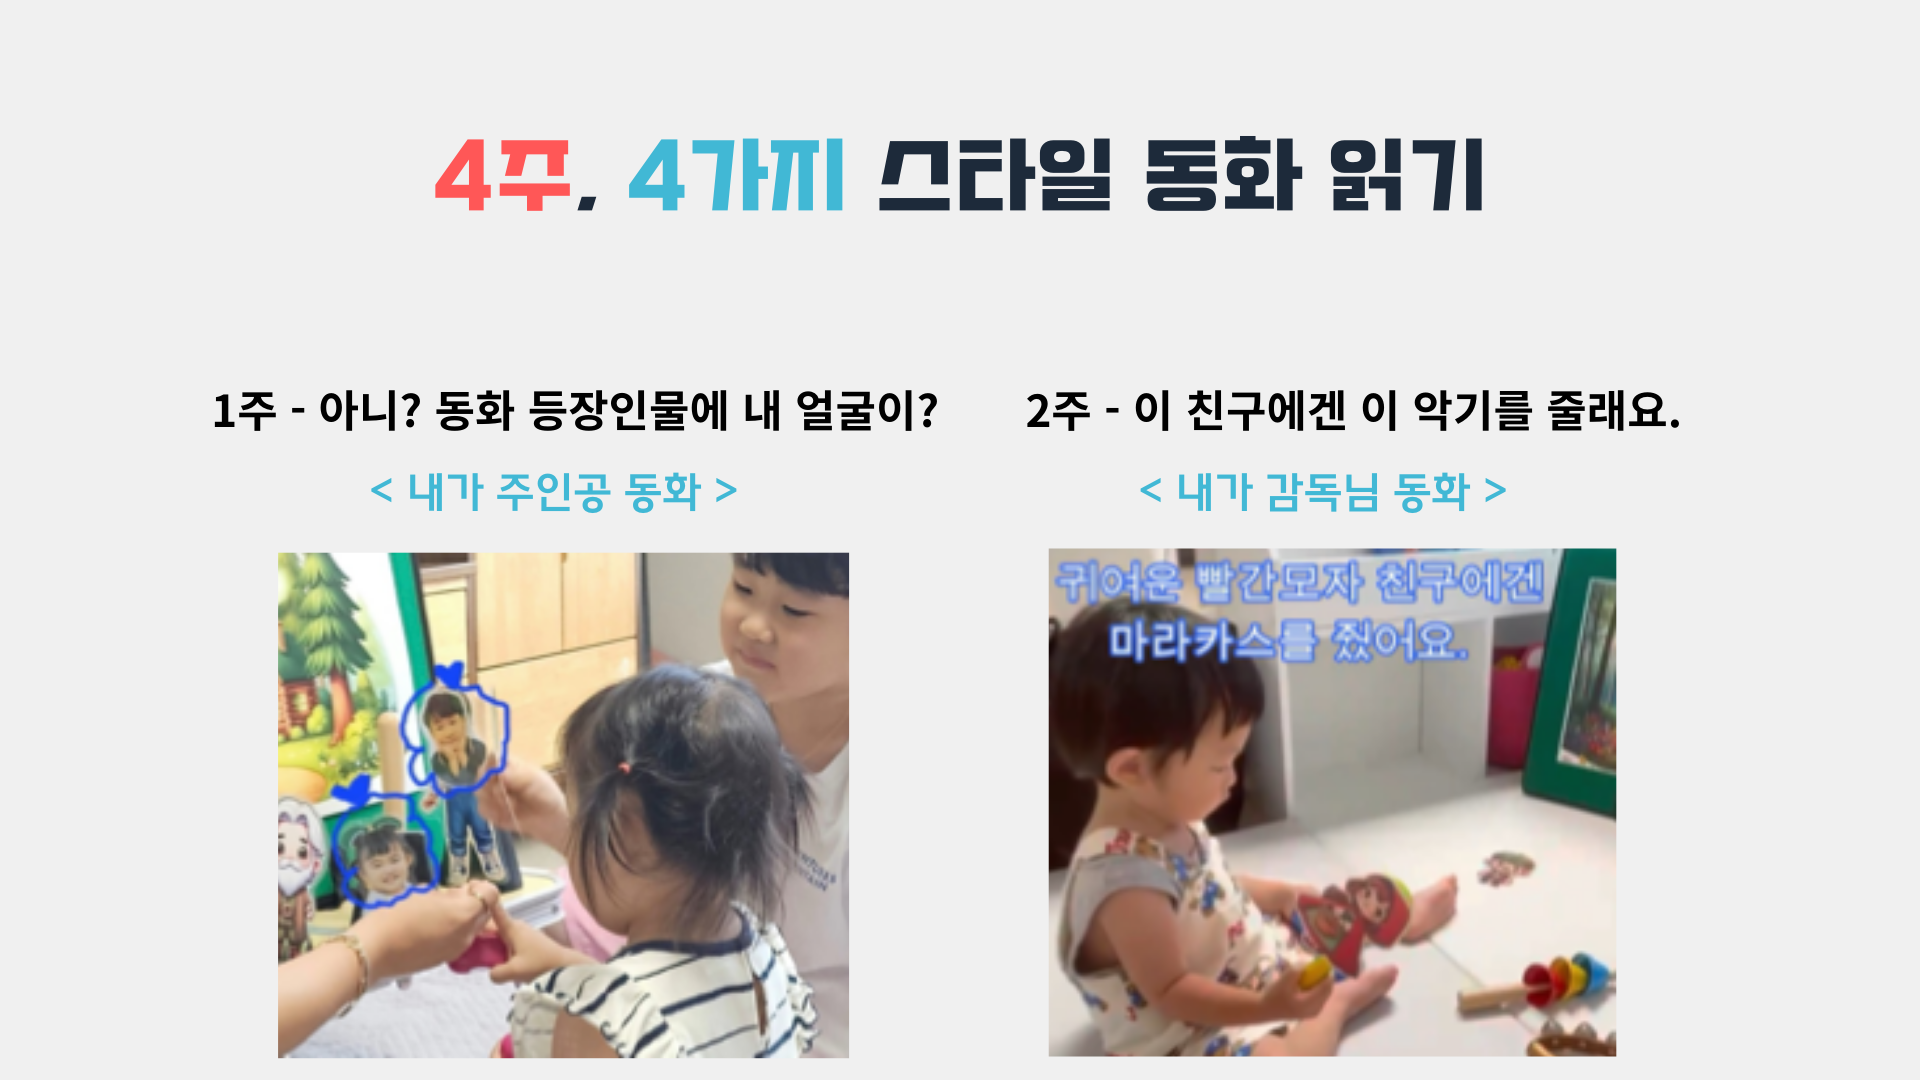
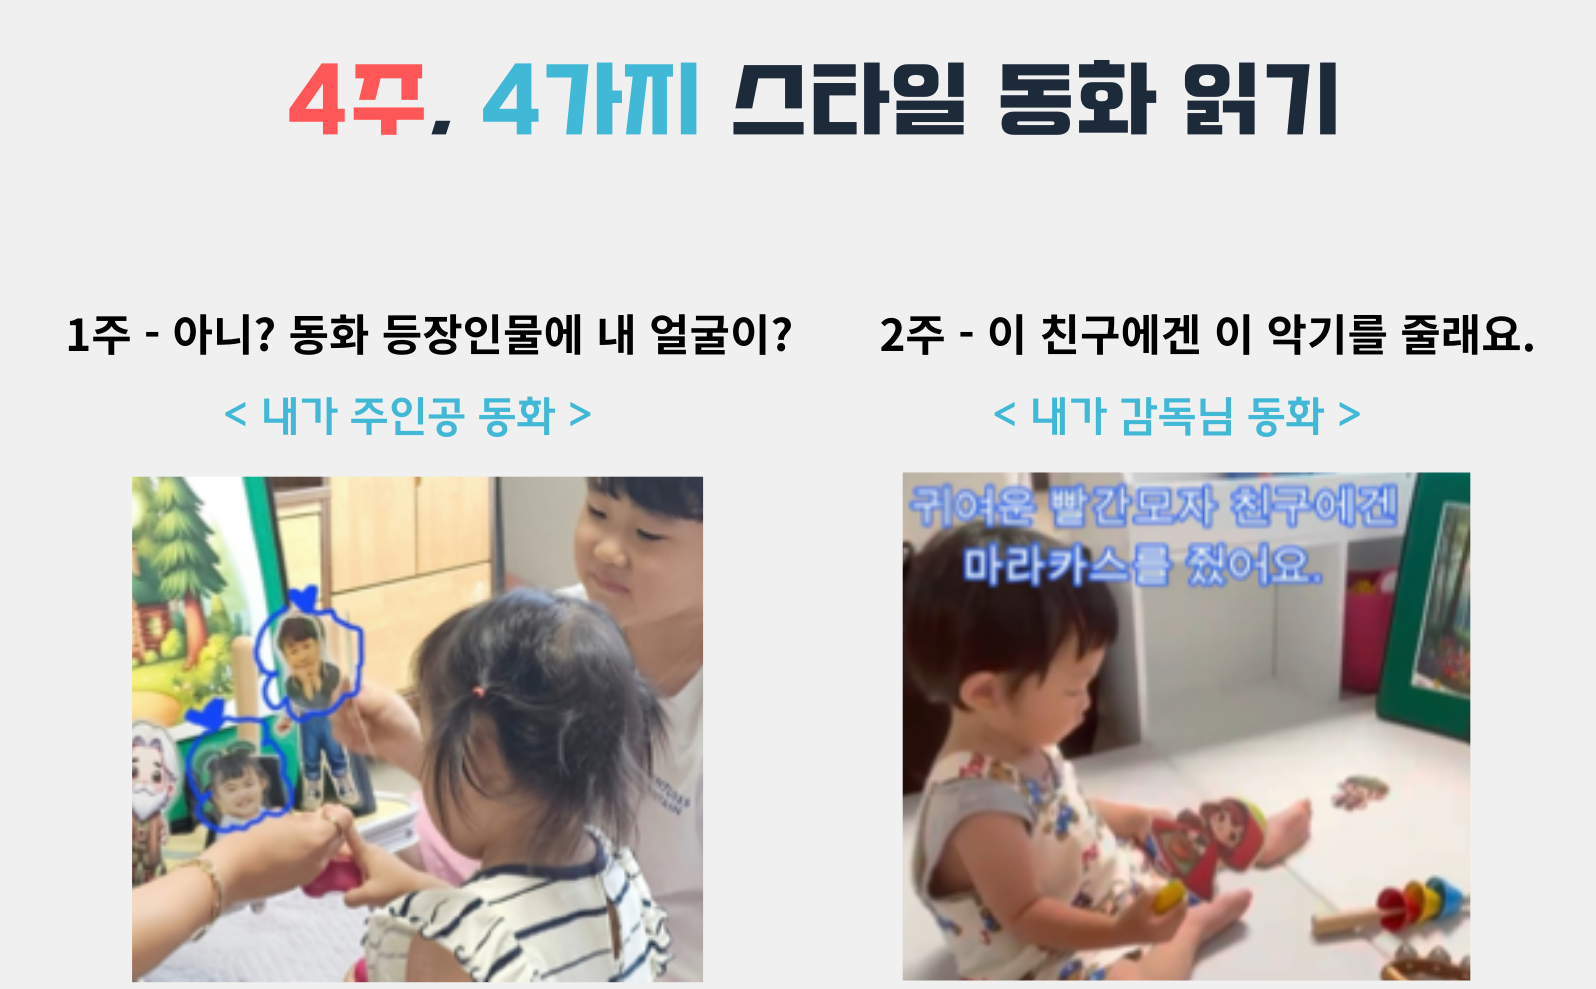
feat: modify main page

diff --git a/src/components/sections/main/DingDongTest.module.scss b/src/components/sections/main/DingDongTest.module.scss
@@ -32,7 +32,7 @@
     line-height: 1.5;
 
     @include mobile {
-      font-size: 22px;
+      font-size: 21px;
       text-align: center;
       word-break: keep-all;
       display: block;
@@ -47,23 +47,23 @@
 
     @include mobile {
       text-align: center;
-      font-size: 22px;
+      font-size: 21px;
       word-break: keep-all;
       margin-top: 10px;
     }
   }
 
   &__titleText {
-    font-size: 25px;
+    font-size: 28px;
     margin-top: 50px;
     width: 100%;
     text-align: start;
     padding: 10px;
-    color: #000000;
+    font-weight: 600;
     // background-color: #ffb2b2;
 
     @include mobile {
-      font-size: 20px;
+      font-size: 23px;
     }
   }
 
@@ -74,6 +74,7 @@
       max-width: 1280px;
       margin: 0 auto;
       overflow-x: hidden;
+      place-items: center;
 
       @include mobile {
         max-width: 100%;
@@ -131,20 +132,20 @@
         }
 
         &__desc {
-          font-size: 20px;
+          font-size: 25px;
           font-weight: 600;
           line-height: 1.7;
           text-align: center;
 
           @include mobile {
-            font-size: 17px;
+            font-size: 19px;
             text-align: center;
             word-break: keep-all;
           }
 
           &__point {
             color: #16bbc5;
-            font-size: 21px;
+            font-size: 25px;
             word-break: keep-all;
 
             @include mobile {

diff --git a/src/components/sections/main/DingdongGrid.module.scss b/src/components/sections/main/DingdongGrid.module.scss
@@ -2,7 +2,7 @@
   &__inner {
     padding: 100px 20px;
     // min-height: 100vh;
-    max-width: 1280px;
+    max-width: 1070px;
     margin: 0 auto;
     overflow-x: hidden;
 
